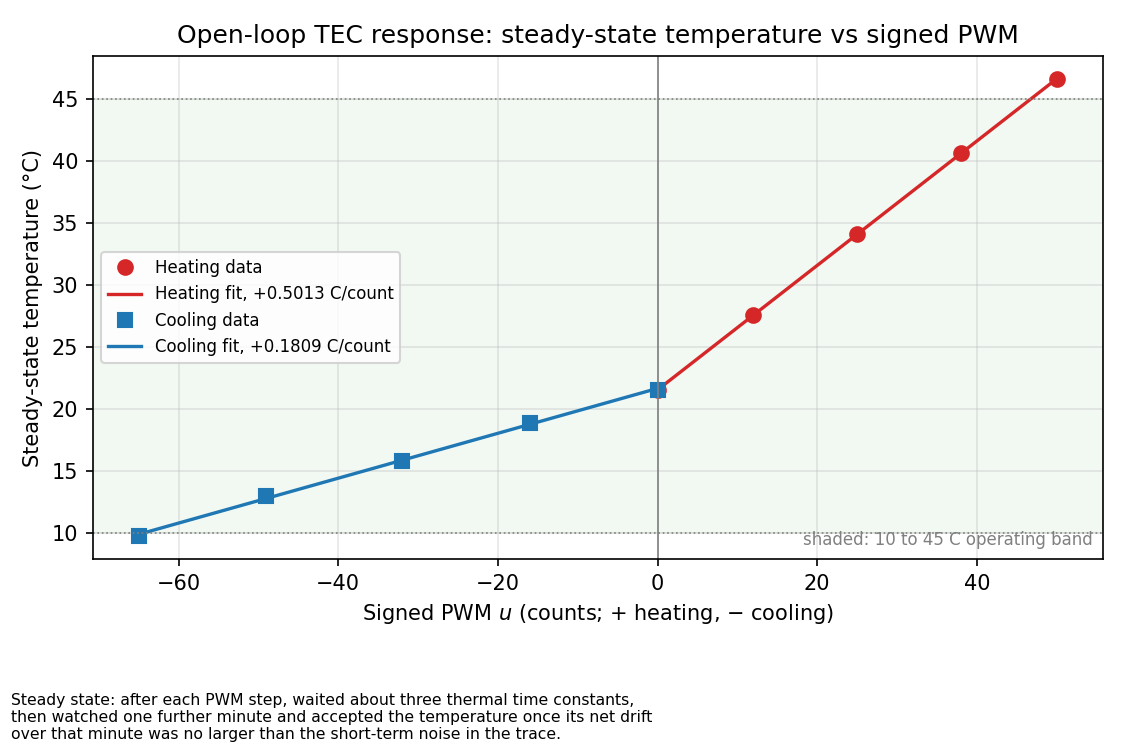
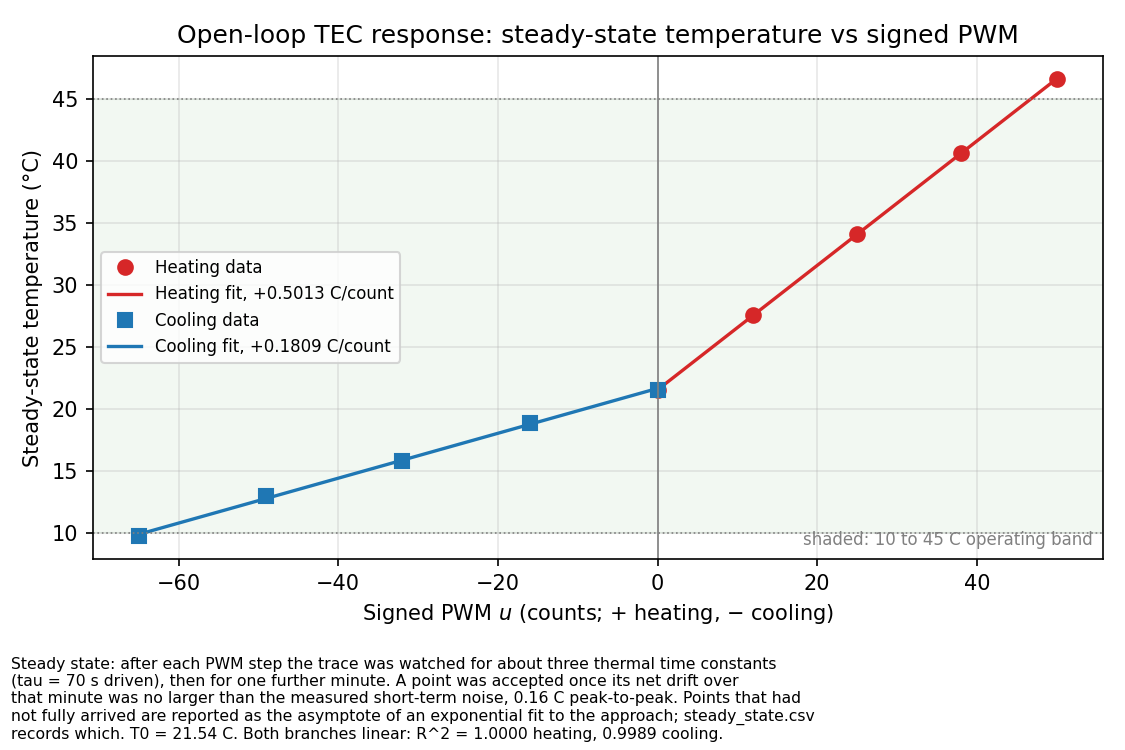
Make the figure caption say what was actually done
The old caption claimed every point was waited out to the drift criterion.
Several were not; they are exponential-fit asymptotes, which steady_state.csv
records row by row. The caption now says so, and names the measured noise
floor (0.16 C peak-to-peak), the driven time constant (70 s), T0, and both
R-squared values.

Changed region(s): [[0.0, 0.8587, 0.7156, 1.0]]

diff --git a/python/plot_open_loop_calibration.py b/python/plot_open_loop_calibration.py
@@ -50,10 +50,13 @@ COOL_COLOR = "#1f77b4"         # blue, matching the strip chart
 # Printed on the figure so the caption requirement is satisfied by the figure
 # itself. EDIT THIS to match what was actually done at the bench.
 STEADY_CRITERION = (
-    "Steady state: after each PWM step, waited about three thermal time "
-    "constants,\nthen watched one further minute and accepted the temperature "
-    "once its net drift\nover that minute was no larger than the short-term "
-    "noise in the trace."
+    "Steady state: after each PWM step the trace was watched for about three "
+    "thermal time constants\n(tau = 70 s driven), then for one further "
+    "minute. A point was accepted once its net drift over\nthat minute was no "
+    "larger than the measured short-term noise, 0.16 C peak-to-peak. Points "
+    "that had\nnot fully arrived are reported as the asymptote of an "
+    "exponential fit to the approach; steady_state.csv\nrecords which. "
+    "T0 = 21.54 C. Both branches linear: R^2 = 1.0000 heating, 0.9989 cooling."
 )
 
 
